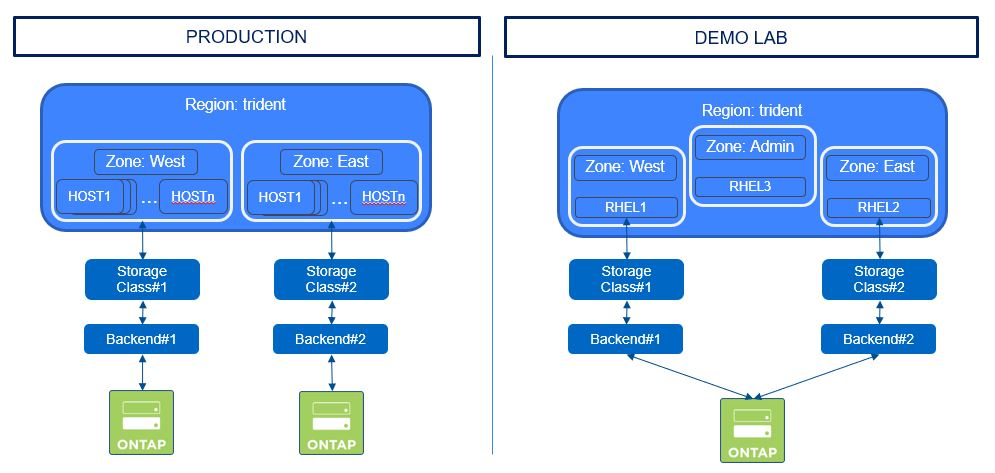
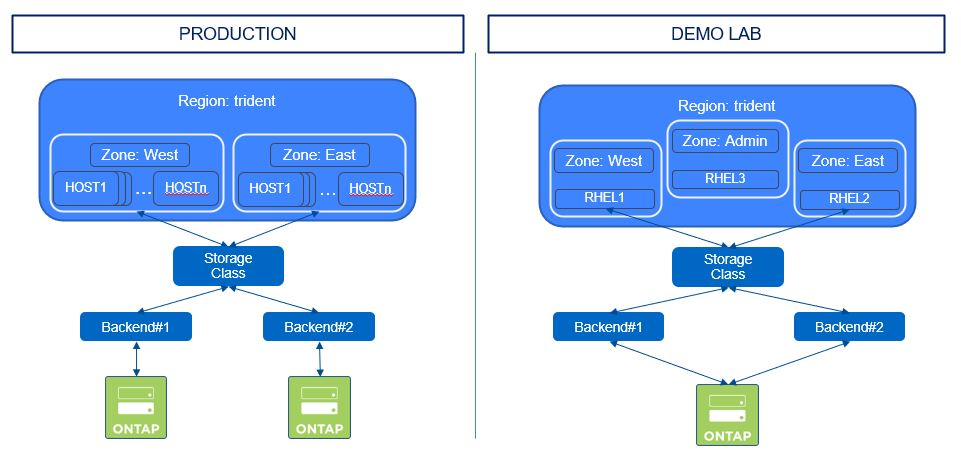
topology updates

diff --git a/Kubernetes_v4/Scenarios/Scenario15/README.md b/Kubernetes_v4/Scenarios/Scenario15/README.md
@@ -36,23 +36,19 @@ $ tridentctl -n trident create backend -f backend_east.json
 +----------+----------------+--------------------------------------+--------+---------+
 ```
 
-We can now also create Kubernetes Storage Classes that will point to each Trident Backend
+We can now create a Kubernetes Storage Class that does not point to a particular Trident Backend.  
+One could decide to also implement topology at the Storage Class level (cf the _sc_east_ & _sc_west_ yaml files for examples.)
 
 ```bash
-$ kubectl create -f sc_west.yaml
-storageclass.storage.k8s.io/sc-topology-west created
-
-$ kubectl create -f sc_east.yaml
-storageclass.storage.k8s.io/sc-topology-east created
+$ kubectl create -f sc_topology.yaml
+storageclass.storage.k8s.io/sc-topology created
 
 $ kubectl get sc
-NAME                          PROVISIONER             RECLAIMPOLICY   VOLUMEBINDINGMODE      ALLOWVOLUMEEXPANSION   AGE
-sc-topology-east              csi.trident.netapp.io   Delete          Immediate              false                  6s
-sc-topology-west              csi.trident.netapp.io   Delete          WaitForFirstConsumer   false                  6m39s
+NAME                 PROVISIONER             RECLAIMPOLICY   VOLUMEBINDINGMODE      ALLOWVOLUMEEXPANSION   AGE
+sc-topology          csi.trident.netapp.io   Delete          WaitForFirstConsumer   false                  6m39s
 ```
 
-You will also notice that these is a specific optional parameter in the WEST storage classes: **volumeBindingMode** set to _WaitForFirstConsumer_ (default value: _Immediate_).  
-This means that the PVC will not be created until referenced in a POD.  
+You will also notice that these is a specific optional parameter in the WEST storage classes: **volumeBindingMode** set to _WaitForFirstConsumer_ (default value: _Immediate_).  This means that the PVC will not be created until referenced in a POD.  
 
 Let's use a specific namespace for this scenario:  
 
@@ -71,16 +67,16 @@ $ kubectl create -n topology -f pvc_west.yaml
 persistentvolumeclaim/pvc-west created
 
 $ kubectl get pvc -n topology
-NAME                               STATUS    VOLUME                                     CAPACITY   ACCESS MODES   STORAGECLASS        AGE
-pvc-east                           Bound     pvc-d0a8aa71-840b-4248-92d6-850b680988a3   5Gi        RWX            sc-topology-east    6s
-pvc-west                           Pending                                                                        sc-topology-west    2s
+NAME              STATUS    VOLUME             CAPACITY   ACCESS MODES   STORAGECLASS    AGE
+pvc-east          Pending                                                sc-topology     2s
+pvc-west          Pending                                                sc-topology     2s
 
 $ kubectl get pv
 NAME                                       CAPACITY   ACCESS MODES   RECLAIM POLICY   STATUS   CLAIM                  STORAGECLASS        REASON   AGE
-pvc-d0a8aa71-840b-4248-92d6-850b680988a3   5Gi        RWX            Delete           Bound    topology/pvc-east      sc-topology-east             72s
 ```
 
-As you can see, the _west_ PVC has not yet been created, simply because of the _volumeBindingMode_ parameter set in the storage class.
+As you can see, both PVC have not yet been created, simply because of the _volumeBindingMode_ parameter set in the storage class.  
+If topology parameters were also definied in the storage classes, not sure the _volumeBindingMode_ would make sense, as you already know where it would be created.
 
 ```bash
 $ kubectl describe -n topology pvc pvc-west | grep -C 3 Events
@@ -93,7 +89,10 @@ Events:
   Normal  WaitForFirstConsumer  56s (x142 over 36m)  persistentvolume-controller  waiting for first consumer to be created before binding
 ```
 
-Let's create two applications. As expected:
+Let's create two applications.  
+If you take a look the POD yaml files, you will notice I have used the **nodeAffinity** parameters to also define where the POD would be created.
+
+As expected:
 
 - the **WEST** Pod should run on **Host1**
 - the **EAST** Pod should run on **Host2**
